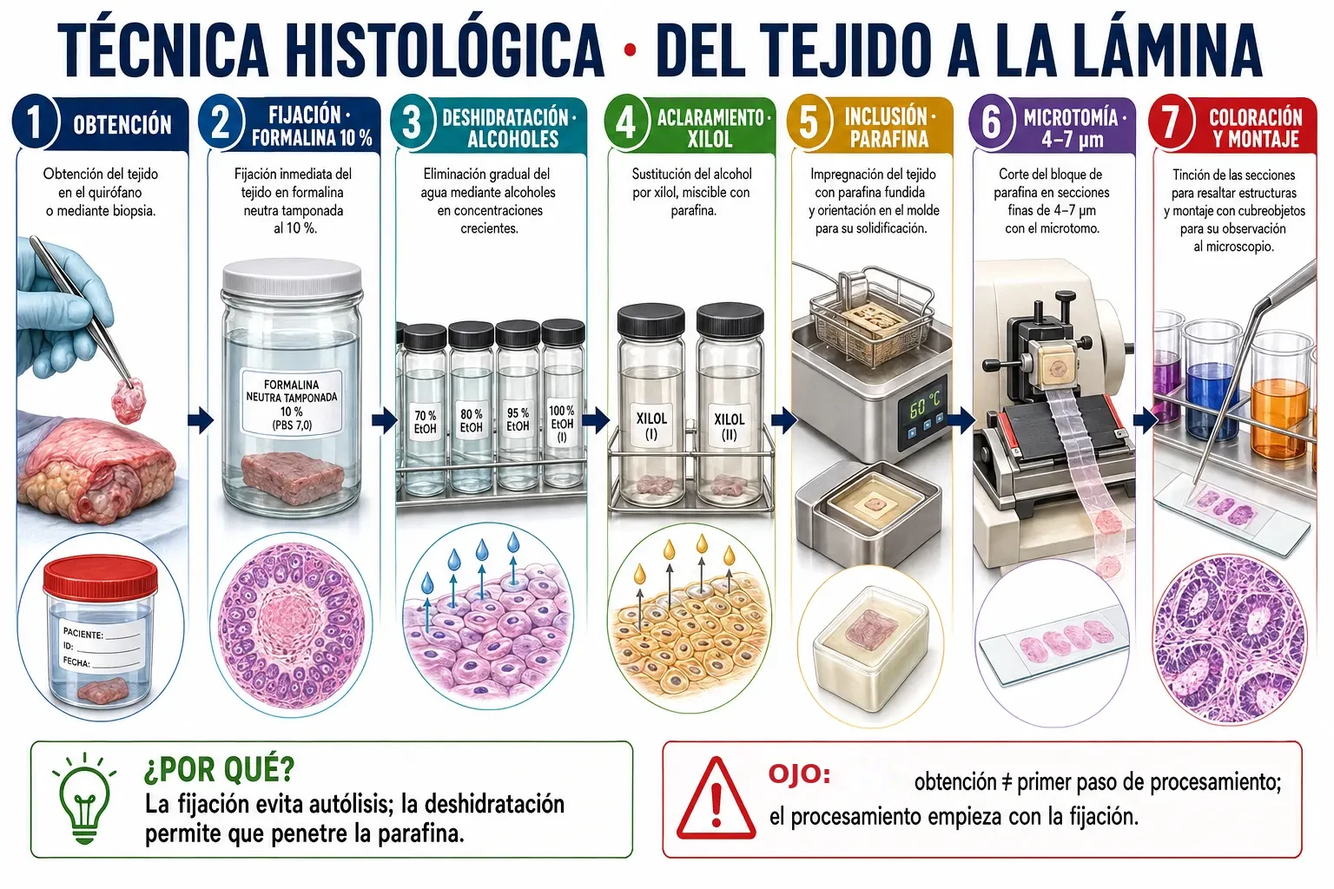
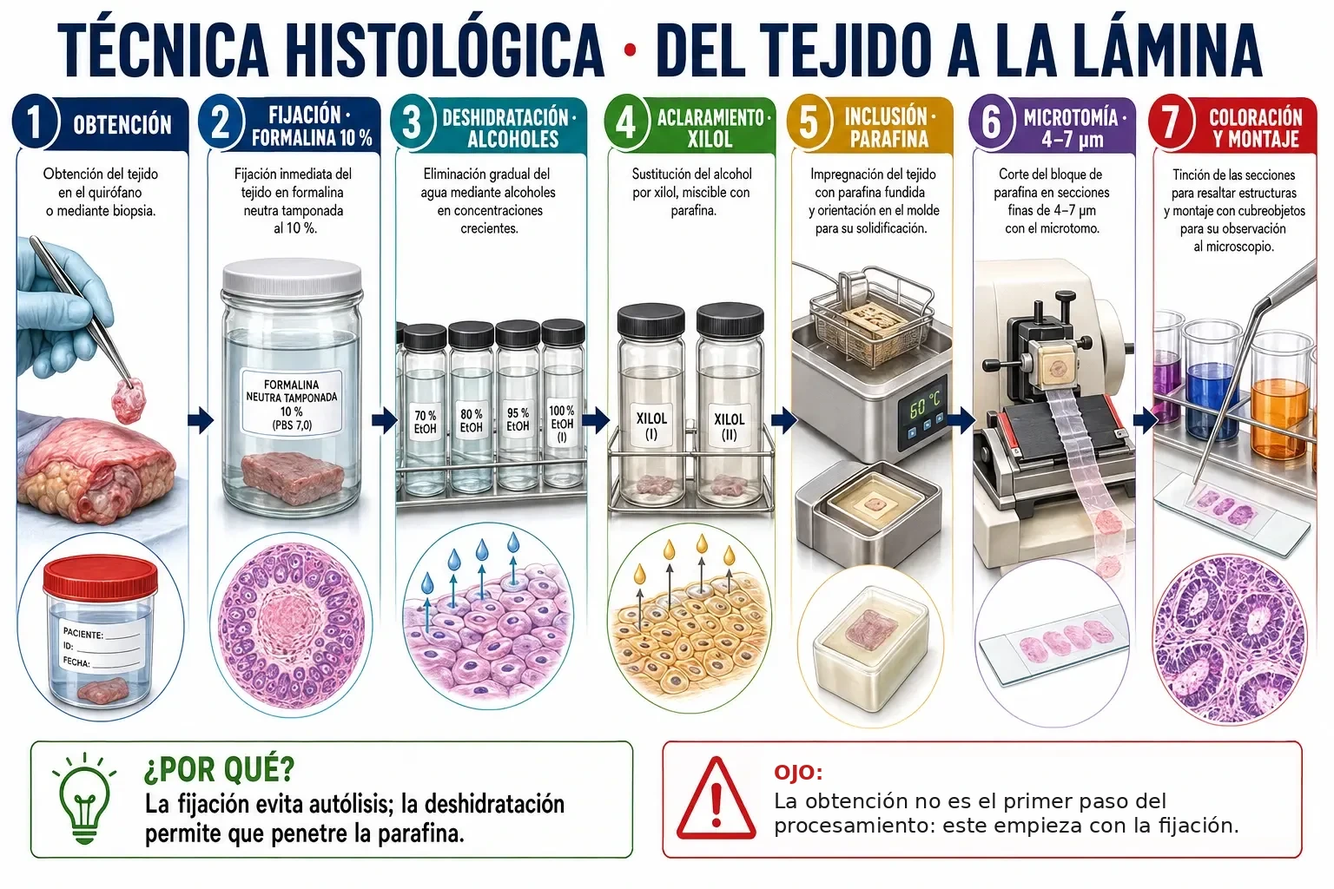
Histología I: voz de prueba em linguagem de estudo, nota de fontes dos leucócitos com a apostila, três figuras com erro tipográfico corrigido e registro
Claude-Session: https://claude.ai/code/session_01RqPJR6WPBhuhwUpV78sACw

Changed region(s): [[0.5625, 0.8438, 0.9688, 0.9375]]

diff --git a/Repasso-Med-Site--main/Atual - Copia/netlify/functions/materias-privadas/histologia-i.html b/Repasso-Med-Site--main/Atual - Copia/netlify/functions/materias-privadas/histologia-i.html
@@ -326,7 +326,7 @@
   </div>
 
   <h3>3 · H&amp;E: por qué el núcleo es azul y el citoplasma rosa</h3>
-  <p>Esta es <b>la pregunta clásica</b> de la materia. La regla de oro es que <b>«el colorante básico tiñe lo ácido, y
+  <p>Esta es <b>una duda central</b> de la materia. La regla de oro es que <b>«el colorante básico tiñe lo ácido, y
   el ácido tiñe lo básico»</b> — se atraen las cargas opuestas.</p>
 
   <figure class="rmc-fig"><div class="rmc-zoom"><img class="rmc-photo" src="/assets/img/histo1/histologia-b01-02-he-tinciones.webp" alt="Infografía sobre H&amp;E y tinciones especiales. Arriba, hematoxilina básica que tiñe el núcleo de azul violeta y eosina ácida que tiñe el citoplasma de rosa, con dos micrografías reales y la regla de que los colorantes básicos se unen a estructuras ácidas. Debajo, PAS en magenta, tricrómico de Masson con colágeno azul y músculo rojo, orceína para fibras elásticas en pardo violáceo, plata para fibras reticulares en negro y azul de toluidina con metacromasia púrpura." loading="lazy" decoding="async" width="1536" height="1024"></div><p class="rmc-hint">🔍 tocá la figura y ampliá con dos dedos para leer los rótulos</p><figcaption><b>Primero la regla, después la lista.</b> No memorices los colores sueltos: mirá el recuadro rojo de abajo a la derecha, que es la regla madre — <b>lo básico tiñe lo ácido y lo ácido tiñe lo básico</b>.</figcaption></figure><div class="rmc-note"><p>De ahí se deduce sola la franja de arriba: la hematoxilina es básica, se pega a los ácidos nucleicos y por eso el núcleo sale azul violeta.</p>
@@ -627,8 +627,7 @@
       <div class="answer">
         <p><strong>a) Epitelial, conectivo, muscular y nervioso.</strong></p>
         <p>Todos los demás nombres que aparecen en las otras opciones (óseo, cartílago, sangre, adiposo) son
-        <b>tipos de tejido conectivo</b> — y el glandular es una <b>variedad del epitelial</b>. Esa es justamente
-        la trampa.</p>
+        <b>tipos de tejido conectivo</b> — y el glandular es una <b>variedad del epitelial</b>. Esa es justamente la confusión.</p>
       </div>
     </div>
 
@@ -749,7 +748,7 @@
     </table>
   </div>
   <div class="key-box exam">
-    <p>★ <strong>Trampa clásica.</strong> «Estereocilios» tiene el prefijo <em>cilio</em> pero <strong>NO son cilios</strong>:
+    <p>★ <strong>Error frecuente.</strong> «Estereocilios» tiene el prefijo <em>cilio</em> pero <strong>NO son cilios</strong>:
     son de <strong>actina</strong> e <strong>inmóviles</strong>. Y <strong>ribete en cepillo</strong> (intestino) es
     simplemente el conjunto de microvellosidades visto al microscopio óptico.</p>
   </div>
@@ -758,7 +757,7 @@
   <p>Bajando desde el ápice, las uniones aparecen <b>siempre en el mismo orden</b>. Mnemotecnia:
   <b>«ocluye → adhiere → remacha → comunica»</b>.</p>
 
-  <figure class="rmc-fig"><div class="rmc-zoom"><img class="rmc-photo" src="/assets/img/histo1/histologia-b02-02-polaridad-uniones.webp" alt="Esquema de tres células epiteliales con dominio apical, lateral y basal. A la izquierda, microvellosidades, estereocilios y cilios con su composición, movilidad, función y localización típica. En el centro, las cinco uniones numeradas de apical a basal: zónula de oclusión, zónula de adhesión, desmosoma, unión gap y hemidesmosoma, cada una con proteínas, anclaje y función. A la derecha, comparación clínica entre pénfigo vulgar con ampolla intraepidérmica y penfigoide bulloso con ampolla subepidérmica." loading="lazy" decoding="async" width="1536" height="1024"></div><p class="rmc-hint">🔍 tocá la figura y ampliá con dos dedos para leer los rótulos</p><figcaption><b>El orden apical→basal es la respuesta.</b> Seguí la columna de números 1 a 5 <b>de arriba hacia abajo</b>: ése es el orden real en la célula y es lo que importa.</figcaption></figure><div class="rmc-note"><p>Fijate en el anclaje, que es la trampa: oclusión y adhesión se anclan a <b>actina</b>; <span class="hi-gl" onclick="var o=this.classList.contains('on');document.querySelectorAll('#tab-histo1 .hi-gl.on').forEach(function(e){e.classList.remove('on')});if(!o)this.classList.add('on')">desmosoma<b>?</b><i onclick="event.stopPropagation()">Unión <b>de anclaje</b> entre dos células, como un botón de presión unido a filamentos intermedios. Da resistencia mecánica; no sella nada — eso lo hace la unión estrecha.<span class="hi-gl-close">tocá la palabra para cerrar</span></i></span> y hemidesmosoma, a <b>queratina</b> (filamentos intermedios).</p>
+  <figure class="rmc-fig"><div class="rmc-zoom"><img class="rmc-photo" src="/assets/img/histo1/histologia-b02-02-polaridad-uniones.webp" alt="Esquema de tres células epiteliales con dominio apical, lateral y basal. A la izquierda, microvellosidades, estereocilios y cilios con su composición, movilidad, función y localización típica. En el centro, las cinco uniones numeradas de apical a basal: zónula de oclusión, zónula de adhesión, desmosoma, unión gap y hemidesmosoma, cada una con proteínas, anclaje y función. A la derecha, comparación clínica entre pénfigo vulgar con ampolla intraepidérmica y penfigoide bulloso con ampolla subepidérmica." loading="lazy" decoding="async" width="1536" height="1024"></div><p class="rmc-hint">🔍 tocá la figura y ampliá con dos dedos para leer los rótulos</p><figcaption><b>El orden apical→basal es la respuesta.</b> Seguí la columna de números 1 a 5 <b>de arriba hacia abajo</b>: ése es el orden real en la célula y es lo que importa.</figcaption></figure><div class="rmc-note"><p>Fijate en el anclaje, que es lo que más se confunde: oclusión y adhesión se anclan a <b>actina</b>; <span class="hi-gl" onclick="var o=this.classList.contains('on');document.querySelectorAll('#tab-histo1 .hi-gl.on').forEach(function(e){e.classList.remove('on')});if(!o)this.classList.add('on')">desmosoma<b>?</b><i onclick="event.stopPropagation()">Unión <b>de anclaje</b> entre dos células, como un botón de presión unido a filamentos intermedios. Da resistencia mecánica; no sella nada — eso lo hace la unión estrecha.<span class="hi-gl-close">tocá la palabra para cerrar</span></i></span> y hemidesmosoma, a <b>queratina</b> (filamentos intermedios).</p>
     <p>A la izquierda, la diferencia entre las tres especializaciones apicales no está en cómo se ven sino en <b>si se mueven</b>: microvellosidades y estereocilios son actina e inmóviles (absorción), los cilios son microtúbulos 9+2 y móviles (transporte).</p>
     <p>El panel clínico cierra la lógica: si el ataque es al desmosoma la ampolla queda <b>dentro</b> de la epidermis; si es al hemidesmosoma, <b>debajo</b>.</p></div>
 
@@ -792,7 +791,7 @@
       <tr><td style="padding:7px 9px"><b>Lámina reticular</b><br><small>(la más profunda)</small></td><td style="padding:7px 9px"><b>Colágeno III</b> (fibras reticulares)</td><td style="padding:7px 9px">Ancla al <b>tejido conectivo</b> subyacente</td></tr>
     </table>
   </div>
-  <figure class="rmc-fig"><div class="rmc-zoom"><img class="rmc-photo" src="/assets/img/histo1/histologia-b02-03-membrana-basal.webp" alt="Infografía de la membrana basal en corte entre epitelio y tejido conectivo, con lámina lúcida de treinta a cincuenta nanómetros, lámina densa de cincuenta a cien y lámina reticular de cincuenta a doscientos, con sus moléculas clave. A la derecha, la distinción entre lámina basal visible con microscopía electrónica y membrana basal visible con microscopía óptica y PAS positiva, las cuatro funciones principales y tres micrografías que comparan membrana basal intacta, carcinoma in situ y carcinoma invasor." loading="lazy" decoding="async" width="1536" height="1024"></div><p class="rmc-hint">🔍 tocá la figura y ampliá con dos dedos para leer los rótulos</p><figcaption><b>Lámina basal y membrana basal no son sinónimos.</b></figcaption></figure><div class="rmc-note"><p>Empezá por los dos recuadros de arriba a la derecha, que son la trampa clásica: <b>lámina basal = lúcida + densa</b> y solo se ve con microscopio electrónico; <b>membrana basal = lámina basal + reticular</b> y ésa sí se ve con el óptico, teñida con PAS.</p>
+  <figure class="rmc-fig"><div class="rmc-zoom"><img class="rmc-photo" src="/assets/img/histo1/histologia-b02-03-membrana-basal.webp" alt="Infografía de la membrana basal en corte entre epitelio y tejido conectivo, con lámina lúcida de treinta a cincuenta nanómetros, lámina densa de cincuenta a cien y lámina reticular de cincuenta a doscientos, con sus moléculas clave. A la derecha, la distinción entre lámina basal visible con microscopía electrónica y membrana basal visible con microscopía óptica y PAS positiva, las cuatro funciones principales y tres micrografías que comparan membrana basal intacta, carcinoma in situ y carcinoma invasor." loading="lazy" decoding="async" width="1536" height="1024"></div><p class="rmc-hint">🔍 tocá la figura y ampliá con dos dedos para leer los rótulos</p><figcaption><b>Lámina basal y membrana basal no son sinónimos.</b></figcaption></figure><div class="rmc-note"><p>Empezá por los dos recuadros de arriba a la derecha, que son el error más frecuente: <b>lámina basal = lúcida + densa</b> y solo se ve con microscopio electrónico; <b>membrana basal = lámina basal + reticular</b> y ésa sí se ve con el óptico, teñida con PAS.</p>
     <p>Después bajá al corte de la izquierda y asociá cada capa con su molécula: laminina e integrinas arriba (adhesión), <b>colágeno IV</b> y perlecano en el medio (soporte y filtro), <b>colágeno III</b> abajo (anclaje al conectivo).</p>
     <p>El panel de la derecha es la aplicación que más rinde: mientras la línea PAS+ esté continua es <b>in situ</b>; cuando se rompe, es <b>invasor</b>.</p></div>
   <div class="hi-postit">
@@ -812,7 +811,7 @@
     <div class="hi-freq"><span class="hi-bar"><i style="width:94%"></i></span><span>🔗 <b>Uniones</b>: orden, proteínas y citoesqueleto; pénfigo vs penfigoide.</span></div>
     <div class="hi-freq"><span class="hi-bar"><i style="width:90%"></i></span><span>📐 <b>Lámina basal (MET) vs membrana basal (MO, PAS+)</b> y las 3 láminas.</span></div>
     <div class="hi-freq"><span class="hi-bar"><i style="width:84%"></i></span><span>✋ Apicales: <b>actina = inmóvil</b> (microvellosidad/estereocilio) vs <b>microtúbulos = móvil</b> (cilio/flagelo).</span></div>
-    <div class="hi-freq"><span class="hi-bar"><i style="width:76%"></i></span><span>🚫 Trampas: <b>pseudoestratificado</b> y <b>transición/urotelio</b>.</span></div>
+    <div class="hi-freq"><span class="hi-bar"><i style="width:76%"></i></span><span>🚫 Confusiones frecuentes: <b>pseudoestratificado</b> y <b>transición/urotelio</b>.</span></div>
   </div>
 
   <details class="video-collapsible">
@@ -1793,7 +1792,7 @@
     <p>El tercer panel explica por qué la reparación es mala: sin vasos, con poco recambio celular y con una matriz densa, la lesión se rellena con <b>fibrocartílago</b>, que mecánicamente es peor.</p></div>
 
   <div class="key-box exam">
-    <p>★ <strong>Trampa clásica.</strong> «El cartílago es vascular» es <strong>siempre falso</strong>: es
+    <p>★ <strong>Error frecuente.</strong> «El cartílago es vascular» es <strong>siempre falso</strong>: es
     <strong>avascular</strong>, sin nervios ni linfáticos.</p>
     <p>Y ojo con el colágeno: la regla es <strong>tipo II</strong>,
     pero el <strong>fibrocartílago tiene tipo I</strong>. Las dos cosas van juntas.</p>
@@ -2279,7 +2278,7 @@
 
   <figure class="rmc-fig"><div class="rmc-zoom"><img class="rmc-photo" src="/assets/img/histo1/histologia-b08-02-osificacion-comparativa.webp" alt="Comparación paso a paso de la osificación intramembranosa en cinco etapas, desde la condensación del mesénquima hasta el periostio con hueso compacto superficial, y la osificación endocondral en cinco etapas, desde el molde de cartílago hialino hasta los centros secundarios y la placa epifisaria. En el centro, lo que ambas requieren: osteoblastos, osteoide y mineralización. Abajo, la localización principal de cada una y el aviso de que el cartílago no se transforma en hueso sino que es reemplazado." loading="lazy" decoding="async" width="1536" height="1024"></div><p class="rmc-hint">🔍 tocá la figura y ampliá con dos dedos para leer los rótulos</p><figcaption><b>Dos caminos, un mismo destino.</b></figcaption></figure><div class="rmc-note"><p>Leé las dos columnas <b>en paralelo, paso 1 contra paso 1</b>: la diferencia está sólo en el punto de partida — a la izquierda se hace hueso directamente sobre mesénquima, a la derecha hace falta primero un <b>molde de cartílago hialino</b>.</p>
     <p>De ahí en adelante los dos hacen exactamente lo mismo, y eso es lo que dice el recuadro verde del centro: en ambas hay osteoblastos, osteoide y mineralización.</p>
-    <p>La banda roja del pie es la pregunta trampa que se repite todos los años: el cartílago <b>no se transforma</b> en hueso, es <b>reemplazado</b> por tejido óseo.</p>
+    <p>La banda roja del pie es la confusión más frecuente: el cartílago <b>no se transforma</b> en hueso, es <b>reemplazado</b> por tejido óseo.</p>
     <p>Y la fila de localización es el otro punto clave: intramembranosa en huesos planos del cráneo, parte de la mandíbula y la clavícula; endocondral en el resto, sobre todo huesos largos.</p></div>
 
   <h3>2 · Osificación intramembranosa, paso a paso</h3>
@@ -2428,7 +2427,7 @@
       <button class="reveal-btn" onclick="toggleAnswer(this)">Ver respuesta</button>
       <div class="answer"><p><strong>b) El disco (placa) epifisario.</strong></p>
       <p>Es cartílago hialino entre epífisis y diáfisis, y crece por vía <b>intersticial</b>. <b>d)</b> El periostio hace
-      crecer el hueso <b>en grosor</b> (aposicional) — es el distractor clásico. <b>c)</b> El conducto de Havers aloja
+      crecer el hueso <b>en grosor</b> (aposicional) — es el error clásico. <b>c)</b> El conducto de Havers aloja
       vasos. <b>a)</b> El endostio tapiza la cavidad medular.</p></div>
     </div>
 
@@ -2481,7 +2480,7 @@
       <ul class="options"><li>a) La presencia o ausencia de un molde previo de cartílago</li><li>b) La célula que forma el hueso: osteoblasto o condroblasto</li><li>c) El tipo de colágeno que forma el hueso final (I o II)</li><li>d) La edad a la que ocurren: fetal o posnatal</li></ul>
       <button class="reveal-btn" onclick="toggleAnswer(this)">Ver respuesta</button>
       <div class="answer"><p><strong>a) La presencia o ausencia de un molde previo de cartílago.</strong></p>
-      <p><b>b)</b> es la trampa: en las <b>dos</b> el hueso lo fabrica el <b>osteoblasto</b>. <b>c)</b> El hueso final es
+      <p><b>b)</b> es la confusión: en las <b>dos</b> el hueso lo fabrica el <b>osteoblasto</b>. <b>c)</b> El hueso final es
       idéntico, con colágeno tipo <b>I</b> en ambos casos. <b>d)</b> Las dos ocurren en la vida fetal y siguen después.</p></div>
     </div>
 
@@ -2668,7 +2667,7 @@
 
   <figure class="rmc-fig"><div class="rmc-zoom"><img class="rmc-photo" src="/assets/img/histo1/histologia-b09-02-leucocitos-comparativo.webp" alt="Comparación de los cinco leucocitos — neutrófilo, eosinófilo, basófilo, linfocito y monocito — con micrografía de cada uno, morfología, rango porcentual aproximado en el adulto normal y función principal. Abajo, tamaño relativo en frotis y una tabla que separa granulocitos de agranulocitos." loading="lazy" decoding="async" width="1536" height="1024"></div><p class="rmc-hint">🔍 tocá la figura y ampliá con dos dedos para leer los rótulos</p><figcaption><b>Núcleo primero, gránulos después.</b></figcaption></figure><div class="rmc-note"><p>Recorré la fila de morfología antes que ninguna otra, porque el diagnóstico se hace ahí: <b>núcleo multilobulado con gránulos pálidos</b> es neutrófilo; <b>bilobulado con gránulos naranja-rojizos</b> es eosinófilo; <b>bilobulado o en S tapado por gránulos azul oscuro</b> es basófilo; <b>redondo, denso y ocupando casi toda la célula</b> es linfocito; <b>arriñonado o en herradura con citoplasma gris abundante</b> es monocito.</p>
     <p>Los porcentajes se aprenden en orden decreciente y sirven de control: neutrófilo 50–70, linfocito 20–30, monocito 2–8, eosinófilo 1–4, basófilo &lt; 1 — la regla mnemotécnica clásica «Never Let Monkeys Eat Bananas».</p>
-    <p><b>Nota de fuentes:</b> son rangos de referencia, no cifras exactas, y los libros no coinciden en los bordes. El resumen de la cátedra da neutrófilo 50–70 %, monocito 2–8 %, eosinófilo 1–3 %, basófilo 0–1 % y linfocito 25–40 % (en otro punto, «≈30 %»). Lo que no cambia con la fuente es el <b>orden</b>: neutrófilo &gt; linfocito &gt; monocito &gt; eosinófilo &gt; basófilo.</p>
+    <p><b>Nota de fuentes:</b> son rangos de referencia, no cifras exactas, y los libros no coinciden en los bordes. El resumen de la cátedra da neutrófilo 50–70 %, monocito 2–8 %, eosinófilo 1–3 %, basófilo 0–1 % y linfocito 25–40 % (en otro punto, «≈30 %»); la apostila de la cátedra da neutrófilo 40–60 %, eosinófilo 0–8 %, basófilo 0–1 %, linfocito ≈20–30 % y monocito ≈3–8 %. Lo que no cambia con la fuente es el <b>orden</b>: neutrófilo &gt; linfocito &gt; monocito &gt; eosinófilo &gt; basófilo.</p>
     <p>La banda de tamaños del pie resuelve la duda más frecuente: el <b>monocito es el más grande</b> (15–20 µm) y el linfocito el más chico.</p></div>
 
   <div class="hi-scroll">
@@ -2771,8 +2770,7 @@
       <ul class="options"><li>a) Plaqueta y linfocito</li><li>b) Eritrocito y monocito</li><li>c) Eritrocito y macrófago</li><li>d) Neutrófilo y basófilo</li></ul>
       <button class="reveal-btn" onclick="toggleAnswer(this)">Ver respuesta</button>
       <div class="answer"><p><strong>b) Eritrocito y monocito.</strong></p>
-      <p>Anucleado + bicóncavo = <b>eritrocito</b>; grande + núcleo <b>en riñón</b> = <b>monocito</b>. <b>c)</b> es la
-      trampa: el <b>macrófago</b> es el monocito ya <b>fuera</b> de la sangre — en un <b>frotis</b> no aparece.
+      <p>Anucleado + bicóncavo = <b>eritrocito</b>; grande + núcleo <b>en riñón</b> = <b>monocito</b>. <b>c)</b> es la confusión: el <b>macrófago</b> es el monocito ya <b>fuera</b> de la sangre — en un <b>frotis</b> no aparece.
       <b>a)</b> La plaqueta no es bicóncava ni el linfocito tiene núcleo reniforme. <b>d)</b> Ambos son granulocitos, con
       núcleo lobulado.</p></div>
     </div>
@@ -2915,7 +2913,7 @@
     <p>Del mieloide salen las cuatro columnas de la izquierda — plaquetas, eritrocitos, granulocitos y monocitos; del linfoide, sólo linfocitos B, T y NK.</p>
     <p>Después seguí una columna hacia abajo para ver que la maduración es siempre el mismo patrón: la célula <b>se achica</b>, el núcleo se condensa y el citoplasma se especializa.</p>
     <p>Dos detalles con nombre propio: el eritroblasto <b>ortocromático</b> también se llama normoblasto, y el <b>reticulocito</b> es el que todavía conserva ARN ribosómico.</p>
-    <p>Los recuadros amarillos son la otra pregunta clásica: EPO para el eritrocito, TPO para la plaqueta, G-CSF para el neutrófilo, IL-5 para el eosinófilo, M-CSF para el monocito.</p>
+    <p>Los recuadros amarillos son la otra relación esencial: EPO para el eritrocito, TPO para la plaqueta, G-CSF para el neutrófilo, IL-5 para el eosinófilo, M-CSF para el monocito.</p>
     <p>Y el pie de página: los linfocitos <b>T maduran en el timo</b>, no en la médula.</p></div>
   
 
@@ -3079,7 +3077,7 @@
       <button class="reveal-btn" onclick="toggleAnswer(this)">Ver respuesta</button>
       <div class="answer"><p><strong>b) Eritropoyetina · riñón.</strong></p>
       <p>El riñón la libera cuando detecta <b>hipoxia</b>. Por eso la insuficiencia renal crónica cursa con <b>anemia</b>.
-      <b>d)</b> Es la trampa: la EPO <b>actúa</b> sobre la médula, pero se <b>produce</b> en el riñón.
+      <b>d)</b> Es la confusión: la EPO <b>actúa</b> sobre la médula, pero se <b>produce</b> en el riñón.
       <b>a)</b> La trombopoyetina existe, pero es <b>hepática</b> y regula las plaquetas.</p></div>
     </div>
 
@@ -3252,7 +3250,7 @@
       <div class="answer"><p><strong>d) Endomisio.</strong></p>
       <p><b>ENDO</b> = adentro, alrededor de cada célula; es TC laxo y lleva los capilares. <b>a)</b> El epimisio envuelve
       el músculo <b>entero</b>. <b>b)</b> El perimisio rodea cada <b>fascículo</b>. <b>c)</b> El sarcolema es la
-      <b>membrana</b> de la célula, no una capa conectiva — clásico distractor.</p></div>
+      <b>membrana</b> de la célula, no una capa conectiva — error clásico.</p></div>
     </div>
 
     <div class="quiz-item">
@@ -3346,7 +3344,7 @@
       <button class="reveal-btn" onclick="toggleAnswer(this)">Ver respuesta</button>
       <div class="answer"><p><strong>b) Dos líneas Z.</strong></p>
       <p>Es la unidad contráctil que se repite. <b>d)</b> Los discos intercalares separan <b>células</b> cardíacas
-      enteras, no sarcómeros: es un distractor muy usado.</p></div>
+      enteras, no sarcómeros: es una confusión frecuente.</p></div>
     </div>
 
     <div class="quiz-item">
@@ -3477,7 +3475,7 @@
     <div class="hi-step"><b>Sustancia GRIS</b><br><small><b>somas</b> neuronales, dendritas y sinapsis. Es donde se <b>procesa</b></small></div>
     <div class="hi-step"><b>Sustancia BLANCA</b><br><small><b>axones mielinizados</b>. Es donde se <b>conduce</b></small></div>
   </div>
-  <p>La distribución <b>se invierte</b> según dónde mires, y eso es una pregunta clásica: en la <b>médula espinal</b> la
+  <p>La distribución <b>se invierte</b> según dónde mires, y eso suele confundirse: en la <b>médula espinal</b> la
   gris está <b>adentro</b> (con forma de <b>mariposa</b> o de <b>H</b>) y la blanca <b>afuera</b>.</p>
     <p>En el <b>cerebro y el
   cerebelo</b> es al revés: la gris forma la <b>corteza</b> por fuera y la blanca queda adentro.</p>
@@ -3553,7 +3551,7 @@
       <button class="reveal-btn" onclick="toggleAnswer(this)">Ver respuesta</button>
       <div class="answer"><p><strong>a) En el centro, con forma de mariposa o de H.</strong></p>
       <p>Y la <b>blanca</b> queda por fuera. <b>c)</b> Describe el <b>cerebro y el cerebelo</b>, donde la distribución se
-      <b>invierte</b>: gris por fuera (corteza), blanca por dentro. Ésa es exactamente la trampa de esta pregunta.</p></div>
+      <b>invierte</b>: gris por fuera (corteza), blanca por dentro. Ésa es exactamente la confusión.</p></div>
     </div>
 
     <div class="quiz-item">
@@ -3811,8 +3809,7 @@
       <div class="answer">
         <p><strong>a) Epitelial, conectivo, muscular y nervioso.</strong></p>
         <p>Todos los demás nombres que aparecen en las otras opciones (óseo, cartílago, sangre, adiposo) son
-        <b>tipos de tejido conectivo</b> — y el glandular es una <b>variedad del epitelial</b>. Esa es justamente
-        la trampa.</p>
+        <b>tipos de tejido conectivo</b> — y el glandular es una <b>variedad del epitelial</b>. Esa es justamente la confusión.</p>
       </div>
     </div><div class="quiz-item">
       <div class="quiz-question"><span class="quiz-tag variante">Variante</span>
@@ -4397,7 +4394,7 @@
       <button class="reveal-btn" onclick="toggleAnswer(this)">Ver respuesta</button>
       <div class="answer"><p><strong>b) El disco (placa) epifisario.</strong></p>
       <p>Es cartílago hialino entre epífisis y diáfisis, y crece por vía <b>intersticial</b>. <b>d)</b> El periostio hace
-      crecer el hueso <b>en grosor</b> (aposicional) — es el distractor clásico. <b>c)</b> El conducto de Havers aloja
+      crecer el hueso <b>en grosor</b> (aposicional) — es el error clásico. <b>c)</b> El conducto de Havers aloja
       vasos. <b>a)</b> El endostio tapiza la cavidad medular.</p></div>
     </div><div class="quiz-item">
       <div class="quiz-question"><span class="quiz-tag variante">Variante</span>
@@ -4440,7 +4437,7 @@
       <ul class="options"><li>a) La presencia o ausencia de un molde previo de cartílago</li><li>b) La célula que forma el hueso: osteoblasto o condroblasto</li><li>c) El tipo de colágeno que forma el hueso final (I o II)</li><li>d) La edad a la que ocurren: fetal o posnatal</li></ul>
       <button class="reveal-btn" onclick="toggleAnswer(this)">Ver respuesta</button>
       <div class="answer"><p><strong>a) La presencia o ausencia de un molde previo de cartílago.</strong></p>
-      <p><b>b)</b> es la trampa: en las <b>dos</b> el hueso lo fabrica el <b>osteoblasto</b>. <b>c)</b> El hueso final es
+      <p><b>b)</b> es la confusión: en las <b>dos</b> el hueso lo fabrica el <b>osteoblasto</b>. <b>c)</b> El hueso final es
       idéntico, con colágeno tipo <b>I</b> en ambos casos. <b>d)</b> Las dos ocurren en la vida fetal y siguen después.</p></div>
     </div><div class="quiz-item">
       <div class="quiz-question"><span class="quiz-tag variante">Variante</span>
@@ -4565,8 +4562,7 @@
       <ul class="options"><li>a) Plaqueta y linfocito</li><li>b) Eritrocito y monocito</li><li>c) Eritrocito y macrófago</li><li>d) Neutrófilo y basófilo</li></ul>
       <button class="reveal-btn" onclick="toggleAnswer(this)">Ver respuesta</button>
       <div class="answer"><p><strong>b) Eritrocito y monocito.</strong></p>
-      <p>Anucleado + bicóncavo = <b>eritrocito</b>; grande + núcleo <b>en riñón</b> = <b>monocito</b>. <b>c)</b> es la
-      trampa: el <b>macrófago</b> es el monocito ya <b>fuera</b> de la sangre — en un <b>frotis</b> no aparece.
+      <p>Anucleado + bicóncavo = <b>eritrocito</b>; grande + núcleo <b>en riñón</b> = <b>monocito</b>. <b>c)</b> es la confusión: el <b>macrófago</b> es el monocito ya <b>fuera</b> de la sangre — en un <b>frotis</b> no aparece.
       <b>a)</b> La plaqueta no es bicóncava ni el linfocito tiene núcleo reniforme. <b>d)</b> Ambos son granulocitos, con
       núcleo lobulado.</p></div>
     </div><div class="quiz-item">
@@ -4709,7 +4705,7 @@
       <button class="reveal-btn" onclick="toggleAnswer(this)">Ver respuesta</button>
       <div class="answer"><p><strong>b) Eritropoyetina · riñón.</strong></p>
       <p>El riñón la libera cuando detecta <b>hipoxia</b>. Por eso la insuficiencia renal crónica cursa con <b>anemia</b>.
-      <b>d)</b> Es la trampa: la EPO <b>actúa</b> sobre la médula, pero se <b>produce</b> en el riñón.
+      <b>d)</b> Es la confusión: la EPO <b>actúa</b> sobre la médula, pero se <b>produce</b> en el riñón.
       <b>a)</b> La trombopoyetina existe, pero es <b>hepática</b> y regula las plaquetas.</p></div>
     </div><div class="quiz-item">
       <div class="quiz-question"><span class="quiz-tag variante">Variante</span>
@@ -4735,7 +4731,7 @@
       <div class="answer"><p><strong>d) Endomisio.</strong></p>
       <p><b>ENDO</b> = adentro, alrededor de cada célula; es TC laxo y lleva los capilares. <b>a)</b> El epimisio envuelve
       el músculo <b>entero</b>. <b>b)</b> El perimisio rodea cada <b>fascículo</b>. <b>c)</b> El sarcolema es la
-      <b>membrana</b> de la célula, no una capa conectiva — clásico distractor.</p></div>
+      <b>membrana</b> de la célula, no una capa conectiva — error clásico.</p></div>
     </div><div class="quiz-item">
       <div class="quiz-question"><span class="quiz-tag variante">Variante</span>
       💗 Las estructuras que unen las células del músculo <b>cardíaco</b> entre sí y son exclusivas de él se llaman:</div>
@@ -4811,7 +4807,7 @@
       <button class="reveal-btn" onclick="toggleAnswer(this)">Ver respuesta</button>
       <div class="answer"><p><strong>b) Dos líneas Z.</strong></p>
       <p>Es la unidad contráctil que se repite. <b>d)</b> Los discos intercalares separan <b>células</b> cardíacas
-      enteras, no sarcómeros: es un distractor muy usado.</p></div>
+      enteras, no sarcómeros: es una confusión frecuente.</p></div>
     </div><div class="quiz-item">
       <div class="quiz-question"><span class="quiz-tag variante">Variante</span>
       🌊 En el tubo digestivo, el músculo responsable del <b>peristaltismo</b> es:</div>
@@ -4863,7 +4859,7 @@
       <button class="reveal-btn" onclick="toggleAnswer(this)">Ver respuesta</button>
       <div class="answer"><p><strong>a) En el centro, con forma de mariposa o de H.</strong></p>
       <p>Y la <b>blanca</b> queda por fuera. <b>c)</b> Describe el <b>cerebro y el cerebelo</b>, donde la distribución se
-      <b>invierte</b>: gris por fuera (corteza), blanca por dentro. Ésa es exactamente la trampa de esta pregunta.</p></div>
+      <b>invierte</b>: gris por fuera (corteza), blanca por dentro. Ésa es exactamente la confusión.</p></div>
     </div><div class="quiz-item">
       <div class="quiz-question"><span class="quiz-tag variante">Variante</span>
       🔵 «Los <b>corpúsculos de Nissl</b> están presentes en el soma y las dendritas, pero <b>no</b> en el axón.»</div>

diff --git a/coordination/source-packs/histologia-i-revisao-2026-10-v1.md b/coordination/source-packs/histologia-i-revisao-2026-10-v1.md
@@ -1,0 +1,51 @@
+# Histología I — revisão editorial (2026-10) · fonte → decisão → destino
+
+Arquivo: `Repasso-Med-Site--main/Atual - Copia/netlify/functions/materias-privadas/histologia-i.html` (slug de grifos `histologia-i`).
+
+**Revisão editorial** com as fontes acessíveis. Histología I já tinha passado por rodadas anteriores (conferência com os slides de H&E, hematócrito, matriz e leucócitos; voz G0; nota de fontes em leucócitos); esta rodada limpa o que restava e confere as figuras.
+
+## 1. Fontes acessíveis (Drive, pasta «Histologia 1 teorica»)
+
+| Fonte | Cobre |
+|---|---|
+| `Apostila Histologia COMPLETA Emojis Partes1a6_compressed.pdf` (roteiro de aula da cátedra, ~62 mil caracteres) | Tecidos epitelial, conjuntivo e adiposo, cartilaginoso, ósseo, sangue; valores normais «material da cátedra» (hematócrito M 35–40 %, H 40–45 %; leucócitos: neutrófilo 40–60 %, eosinófilo 0–8 %, basófilo 0–1 %, linfócito ≈20–30 %, monócito ≈3–8 %; cartilagem 60–80 % água; matriz óssea ≈ 35 % orgânica / 65 % inorgânica; plasma ≈55 % / elementos figurados ≈45 %) |
+| `Histologia P2_compressed.pdf` | Anotações manuscritas de aula, em grande parte ilegíveis na extração |
+| Ross & Pawlina 6.ª ed. (55 MB) | Citado na apostila; a leitura não devolve texto; **não consultado** |
+
+## 2. Achados → decisões → destino
+
+| # | Achado | Decisão | Destino |
+|---|---|---|---|
+| 1 | Voz de prova no texto de ensino: «la pregunta clásica», «trampa clásica», «distractor clásico», «pregunta trampa que se repite todos los años», «es un distractor muy usado» (≈30 ocorrências, bloco e banco) | Reescritas como linguagem de estudo («una duda central», «error frecuente», «error clásico», «confusión más frecuente», «confusiones frecuentes»). Resposta, letra e conteúdo iguais | blocos 01, 02, 04, 06, 08, 09, 10, 11, 12 e as cópias do banco geral |
+| 2 | Nota de fontes dos leucócitos citava só «el resumen de la cátedra» com valores que diferem da apostila (neutrófilo 50–70 vs 40–60 %, eosinófilo 1–3 vs 0–8 %, linfócito 25–40 vs 20–30 %, monócito 2–8 vs 3–8 %) | Acrescentada a faixa da apostila à nota, sem mudar os números do texto nem as perguntas (a nota já diz que os rangos variam por fonte e que o que não muda é a ordem) | bloco 09 (nota de fontes; só no bloco, não no banco) |
+| 3 | Cobertura: 73 perguntas avaliáveis nos blocos 01–09, mais os blocos 10–12; as respostas têm o assunto ensinado antes no bloco. Duas respostas de baixa coincidência lexical conferidas à mão (PAS e glicosaminoglicanos): ambas ensinadas | Sem mudança | — |
+| 4 | Figuras (36, todas vistas uma a uma): tudo em castelhano, nenhuma com «EN EXAMEN» | **3 retoques tipográficos** (nenhuma removida): `b01-01_tecnica_histologica-rev`: caixa «OJO» com texto solto («obtención ≠ primer paso…») → «La obtención no es el primer paso del procesamiento: este empieza con la fijación»; `b06-03_crecimiento_nutricion_reparacion`: «(em articular)» → «(en articular)»; `b11-02_sarcomero_contraccion`: «ac▢rtan» (letra faltando) → «acortan» | assets/img/histo1 |
+| 5 | Figura de leucócitos (`b09-01`) mostra faixas aproximadas (neutrófilo 40–70 %, eosinófilo 1–4 %, linfócito 20–45 %, monócito 2–10 %) e a figura de osso mostra colágeno ≈30–40 % / hidroxiapatita ≈60–70 %: coincidem com a nota «rangos de referencia» e não com um valor único | Mantidas (ver §6) | — |
+
+## 3. Contagens antes → depois (conferidas por mim)
+
+| Item | Antes | Depois |
+|---|---|---|
+| Perguntas | 300 | 300 |
+| Alternativas | 1136 | 1136 |
+| Letras de gabarito | idênticas | idênticas |
+| «Ver respuesta» | 284 | 284 |
+| Imagens referenciadas | 36 | 36 |
+| IDs | 18 | 18 |
+| Tarjetas | 396 | 396 |
+| Banco espelhado | igual | igual |
+
+## 4. Grifos
+
+Consulta somente leitura ao Supabase: **0 grifos** para `histologia-i` (há 42 para `histologia-ii`, outra matéria). Nenhuma escrita.
+
+## 5. Navegador (390 e 1280 px)
+
+36/36 imagens carregam, sem rolagem horizontal, «Ver respuesta» abre em 4/4 blocos testados (01, 05, 08, 11), 396 cartões, sem erro de JS.
+
+## 6. Observações / pendências
+
+1. Ross & Pawlina não lido (leitura vazia): os números continuam atribuídos à cátedra/«rangos de referencia».
+2. Faixas das figuras de leucócitos e osso diferem um pouco da apostila: já explicado na nota de fontes do bloco 09; não alterei pixels de dados.
+3. Os rótulos «Basada en preguntas de examen» / «De examen» são a etiqueta oficial da lei 8-A.4; mantidos.
+4. Anotações manuscritas (`Histologia P2`) ilegíveis: não usadas como fonte.
